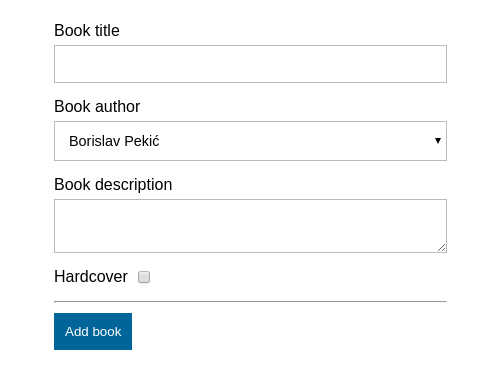
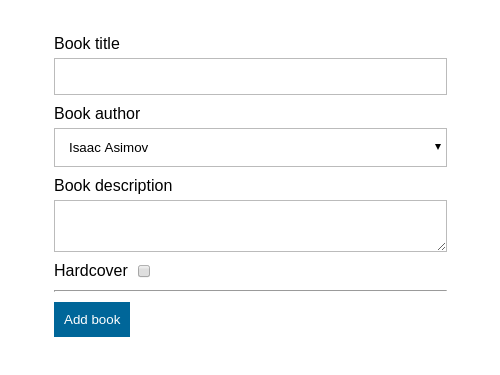
Add styles for multiple select

diff --git a/css/minimalizr.css b/css/minimalizr.css
@@ -1,1 +1,1 @@
-*{box-sizing:border-box;margin:0;padding:0}html{scroll-behavior:smooth}body{font-family:sans-serif;font-size:1rem;word-wrap:break-word}::selection{background-color:#069;color:#fff}.container{width:1200px;max-width:100%;margin:0 auto;padding:0 10px}.container-fluid{width:100%}.row{display:grid;grid-template-columns:repeat(12, 1fr)}.col-md-1{grid-column:span 1}.col-md-2{grid-column:span 2}.col-md-3{grid-column:span 3}.col-md-4{grid-column:span 4}.col-md-5{grid-column:span 5}.col-md-6{grid-column:span 6}.col-md-7{grid-column:span 7}.col-md-8{grid-column:span 8}.col-md-9{grid-column:span 9}.col-md-10{grid-column:span 10}.col-md-11{grid-column:span 11}.col-md-12{grid-column:span 12}@media screen and (max-width: 768px){.col-sm-1{grid-column:span 1}.col-sm-2{grid-column:span 2}.col-sm-3{grid-column:span 3}.col-sm-4{grid-column:span 4}.col-sm-5{grid-column:span 5}.col-sm-6{grid-column:span 6}.col-sm-7{grid-column:span 7}.col-sm-8{grid-column:span 8}.col-sm-9{grid-column:span 9}.col-sm-10{grid-column:span 10}.col-sm-11{grid-column:span 11}.col-sm-12{grid-column:span 12}}.text-white{color:#fff}.text-red{color:#f63}.text-green{color:#096}.text-blue{color:#069}.text-cyan{color:#099}.text-yellow{color:#ff0}.text-magenta{color:#9f4576}.text-gray{color:#888}.text-light-gray{color:#bbb}.text-black{color:#000}.bg-white{background-color:#fff}.bg-red{background-color:#f63}.bg-green{background-color:#096}.bg-blue{background-color:#069}.bg-cyan{background-color:#099}.bg-yellow{background-color:#ff0}.bg-magenta{background-color:#9f4576}.bg-gray{background-color:#888}.bg-light-gray{background-color:#bbb}.bg-black{background-color:#000}.hide{display:none}.bordered{border:1px solid #888}.padded{padding:10px}.underline{text-decoration:underline}.smaller{font-size:smaller}.text-left{text-align:left}.text-center{text-align:center}.text-right{text-align:right}.text-justify{text-align:justify}.truncate{white-space:nowrap;overflow:hidden;text-overflow:ellipsis}.drop-cap::first-letter{font-size:xx-large}@media screen and (max-width: 768px){.hide-on-sm{display:none}}h1,h2,h3,h4,h5,h6{padding:10px 0}p{padding:10px 0}a{color:#069;text-decoration:underline}a:active,a:visited{color:#9f4576}a:not([href]){color:#000;text-decoration:none}strong{font-weight:bold}em{font-style:italic}mark{background-color:#ff0}del{text-decoration:line-through}sub{font-size:smaller;vertical-align:sub}sup{font-size:smaller;vertical-align:super}q::before{content:'"'}q::after{content:'"'}blockquote{padding:10px 0}blockquote footer{text-align:right}cite{font-style:italic}abbr[title]{text-decoration:underline dotted}pre.code,code,kbd{padding:2px 4px;border-radius:4px;font-family:monospace}kbd{background-color:#000;color:#fff}code{background-color:#bbb}pre.code{background-color:#bbb;margin:10px 0;overflow-x:auto;padding:10px}ul,ol{list-style-position:inside}img{max-width:100%}figure figcaption,footer{font-size:smaller}details summary{cursor:pointer;font-weight:bold;user-select:none}.table-responsive{overflow-x:auto}table{border-collapse:collapse;margin:10px 0;table-layout:fixed}table,table th,table td{border:1px solid #000}table th{font-weight:bold}table th,table td{padding:10px;text-align:left}form{display:grid;grid-template-columns:1fr;grid-gap:10px;margin:10px 0}form label{display:flex;flex-direction:column;align-items:flex-start}form label span{user-select:none;margin-bottom:5px}form label input,form label textarea,form label select,form label button{font-size:smaller}form label input,form label textarea,form label select{background-color:#fff;border:1px solid #bbb;font-family:sans-serif;padding:10px;width:100%}form label textarea{min-height:50px;max-height:200px;resize:vertical}form label.form-checkbox{flex-direction:row}form label.form-checkbox span{cursor:pointer;margin-bottom:0}form label.form-checkbox input[type=checkbox]{cursor:pointer;align-self:center;width:auto;margin-left:10px}form button{width:fit-content}button{background-color:#888;border:0;color:#fff;cursor:pointer;padding:10px;user-select:none}button[type=submit]{background-color:#069;color:#fff}button[disabled]{background-color:#bbb;color:#fff;cursor:not-allowed}@keyframes spin{0%{transform:rotate(0deg)}100%{transform:rotate(360deg)}}.spinner{border:5px solid #bbb;border-top:5px solid #069;border-radius:50%;height:60px;width:60px;animation-name:spin;animation-duration:1s;animation-timing-function:linear;animation-iteration-count:infinite}form .spinner{justify-self:center}ul.breadcrumbs{display:flex;list-style-type:none;user-select:none}ul.breadcrumbs li{padding:10px 0}ul.breadcrumbs li:not(:last-child)::after{content:" / ";color:#069;display:inline-block;margin:0 10px}ul.breadcrumbs li:last-child{color:inherit;text-decoration:none}/*# sourceMappingURL=minimalizr.css.map */
+*{box-sizing:border-box;margin:0;padding:0}html{scroll-behavior:smooth}body{font-family:sans-serif;font-size:1rem;word-wrap:break-word}::selection{background-color:#069;color:#fff}.container{width:1200px;max-width:100%;margin:0 auto;padding:0 10px}.container-fluid{width:100%}.row{display:grid;grid-template-columns:repeat(12, 1fr)}.col-md-1{grid-column:span 1}.col-md-2{grid-column:span 2}.col-md-3{grid-column:span 3}.col-md-4{grid-column:span 4}.col-md-5{grid-column:span 5}.col-md-6{grid-column:span 6}.col-md-7{grid-column:span 7}.col-md-8{grid-column:span 8}.col-md-9{grid-column:span 9}.col-md-10{grid-column:span 10}.col-md-11{grid-column:span 11}.col-md-12{grid-column:span 12}@media screen and (max-width: 768px){.col-sm-1{grid-column:span 1}.col-sm-2{grid-column:span 2}.col-sm-3{grid-column:span 3}.col-sm-4{grid-column:span 4}.col-sm-5{grid-column:span 5}.col-sm-6{grid-column:span 6}.col-sm-7{grid-column:span 7}.col-sm-8{grid-column:span 8}.col-sm-9{grid-column:span 9}.col-sm-10{grid-column:span 10}.col-sm-11{grid-column:span 11}.col-sm-12{grid-column:span 12}}.text-white{color:#fff}.text-red{color:#f63}.text-green{color:#096}.text-blue{color:#069}.text-cyan{color:#099}.text-yellow{color:#ff0}.text-magenta{color:#9f4576}.text-gray{color:#888}.text-light-gray{color:#bbb}.text-black{color:#000}.bg-white{background-color:#fff}.bg-red{background-color:#f63}.bg-green{background-color:#096}.bg-blue{background-color:#069}.bg-cyan{background-color:#099}.bg-yellow{background-color:#ff0}.bg-magenta{background-color:#9f4576}.bg-gray{background-color:#888}.bg-light-gray{background-color:#bbb}.bg-black{background-color:#000}.hide{display:none}.bordered{border:1px solid #888}.padded{padding:10px}.underline{text-decoration:underline}.smaller{font-size:smaller}.text-left{text-align:left}.text-center{text-align:center}.text-right{text-align:right}.text-justify{text-align:justify}.truncate{white-space:nowrap;overflow:hidden;text-overflow:ellipsis}.drop-cap::first-letter{font-size:xx-large}@media screen and (max-width: 768px){.hide-on-sm{display:none}}h1,h2,h3,h4,h5,h6{padding:10px 0}p{padding:10px 0}a{color:#069;text-decoration:underline}a:active,a:visited{color:#9f4576}a:not([href]){color:#000;text-decoration:none}strong{font-weight:bold}em{font-style:italic}mark{background-color:#ff0}del{text-decoration:line-through}sub{font-size:smaller;vertical-align:sub}sup{font-size:smaller;vertical-align:super}q::before{content:'"'}q::after{content:'"'}blockquote{padding:10px 0}blockquote footer{text-align:right}cite{font-style:italic}abbr[title]{text-decoration:underline dotted}pre.code,code,kbd{padding:2px 4px;border-radius:4px;font-family:monospace}kbd{background-color:#000;color:#fff}code{background-color:#bbb}pre.code{background-color:#bbb;margin:10px 0;overflow-x:auto;padding:10px}ul,ol{list-style-position:inside}img{max-width:100%}figure figcaption,footer{font-size:smaller}details summary{cursor:pointer;font-weight:bold;user-select:none}.table-responsive{overflow-x:auto}table{border-collapse:collapse;margin:10px 0;table-layout:fixed}table,table th,table td{border:1px solid #000}table th{font-weight:bold}table th,table td{padding:10px;text-align:left}form{display:grid;grid-template-columns:1fr;grid-gap:10px;margin:10px 0}form>label{display:flex;flex-direction:column;align-items:flex-start}form>label span{user-select:none;margin-bottom:5px}form>label input,form>label textarea,form>label select,form>label button{font-size:smaller}form>label input,form>label textarea,form>label select{background-color:#fff;border:1px solid #bbb;font-family:sans-serif;padding:10px;width:100%}form>label select[multiple]{max-height:200px;padding:0}form>label select[multiple] option{padding:10px}form>label textarea{min-height:50px;max-height:200px;resize:vertical}form .form-checkbox{display:flex;flex-direction:row;align-items:center;flex-wrap:wrap}form .form-checkbox label{cursor:pointer;display:flex;align-items:center;user-select:none}form .form-checkbox input[type=checkbox]{cursor:pointer;align-self:center;width:auto;margin-left:10px}form button{width:fit-content}button{background-color:#888;border:0;color:#fff;cursor:pointer;padding:10px;user-select:none}button[type=submit]{background-color:#069;color:#fff}button[disabled]{background-color:#bbb;color:#fff;cursor:not-allowed}ul.breadcrumbs{display:flex;list-style-type:none;user-select:none}ul.breadcrumbs li{padding:10px 0}ul.breadcrumbs li:not(:last-child)::after{content:" / ";color:#069;display:inline-block;margin:0 10px}ul.breadcrumbs li:last-child{color:inherit;text-decoration:none}@keyframes spin{0%{transform:rotate(0deg)}100%{transform:rotate(360deg)}}.spinner{border:5px solid #bbb;border-top:5px solid #069;border-radius:50%;height:60px;width:60px;animation-name:spin;animation-duration:1s;animation-timing-function:linear;animation-iteration-count:infinite}form .spinner{justify-self:center}/*# sourceMappingURL=minimalizr.css.map */

diff --git a/sass/components/_form.scss b/sass/components/_form.scss
@@ -6,7 +6,7 @@ form {
 	grid-gap: $spacing;
 	margin: $spacing 0;
 
-	label {
+	& > label {
 		display: flex;
 		flex-direction: column;
 		align-items: flex-start;
@@ -28,26 +28,40 @@ form {
 			width: 100%;
 		}
 
+		select[multiple] {
+			max-height: 200px;
+			padding: 0;
+
+			option {
+				padding: $spacing;
+			}
+		}
+
 		textarea {
 			min-height: 50px;
 			max-height: 200px;
 			resize: vertical;
 		}
+	}
 
-		&.form-checkbox {
-			flex-direction: row;
-	
-			span {
-				cursor: pointer;
-				margin-bottom: 0;
-			}
-	
-			input[type="checkbox"] {
-				cursor: pointer;
-				align-self: center;
-				width: auto;
-				margin-left: $form-padding;
-			}
+	.form-checkbox {
+		display: flex;
+		flex-direction: row;
+		align-items: center;
+		flex-wrap: wrap;
+
+		label {
+			cursor: pointer;
+			display: flex;
+			align-items: center;
+			user-select: none;
+		}
+
+		input[type="checkbox"] {
+			cursor: pointer;
+			align-self: center;
+			width: auto;
+			margin-left: $form-padding;
 		}
 	}
 

diff --git a/sass/main.scss b/sass/main.scss
@@ -21,5 +21,5 @@ $colors: (
 @import 'components/tables';
 @import 'components/form';
 @import 'components/buttons';
-@import 'components/spinner';
 @import 'components/breadcrumbs';
+@import 'components/spinner';

diff --git a/README.md b/README.md
@@ -94,10 +94,12 @@ Usage example:
 		<span>Book description</span>
 		<textarea></textarea>
 	</label>
-	<label class="form-checkbox">
-		<span>Hardcover</span>
-		<input type="checkbox">
-	</label>
+	<div class="form-checkbox">
+		<label>
+			Hardcover
+			<input type="checkbox">
+		</label>
+	</div>
 	<hr>
 	<button type="submit">Add book</button>
 </form>
